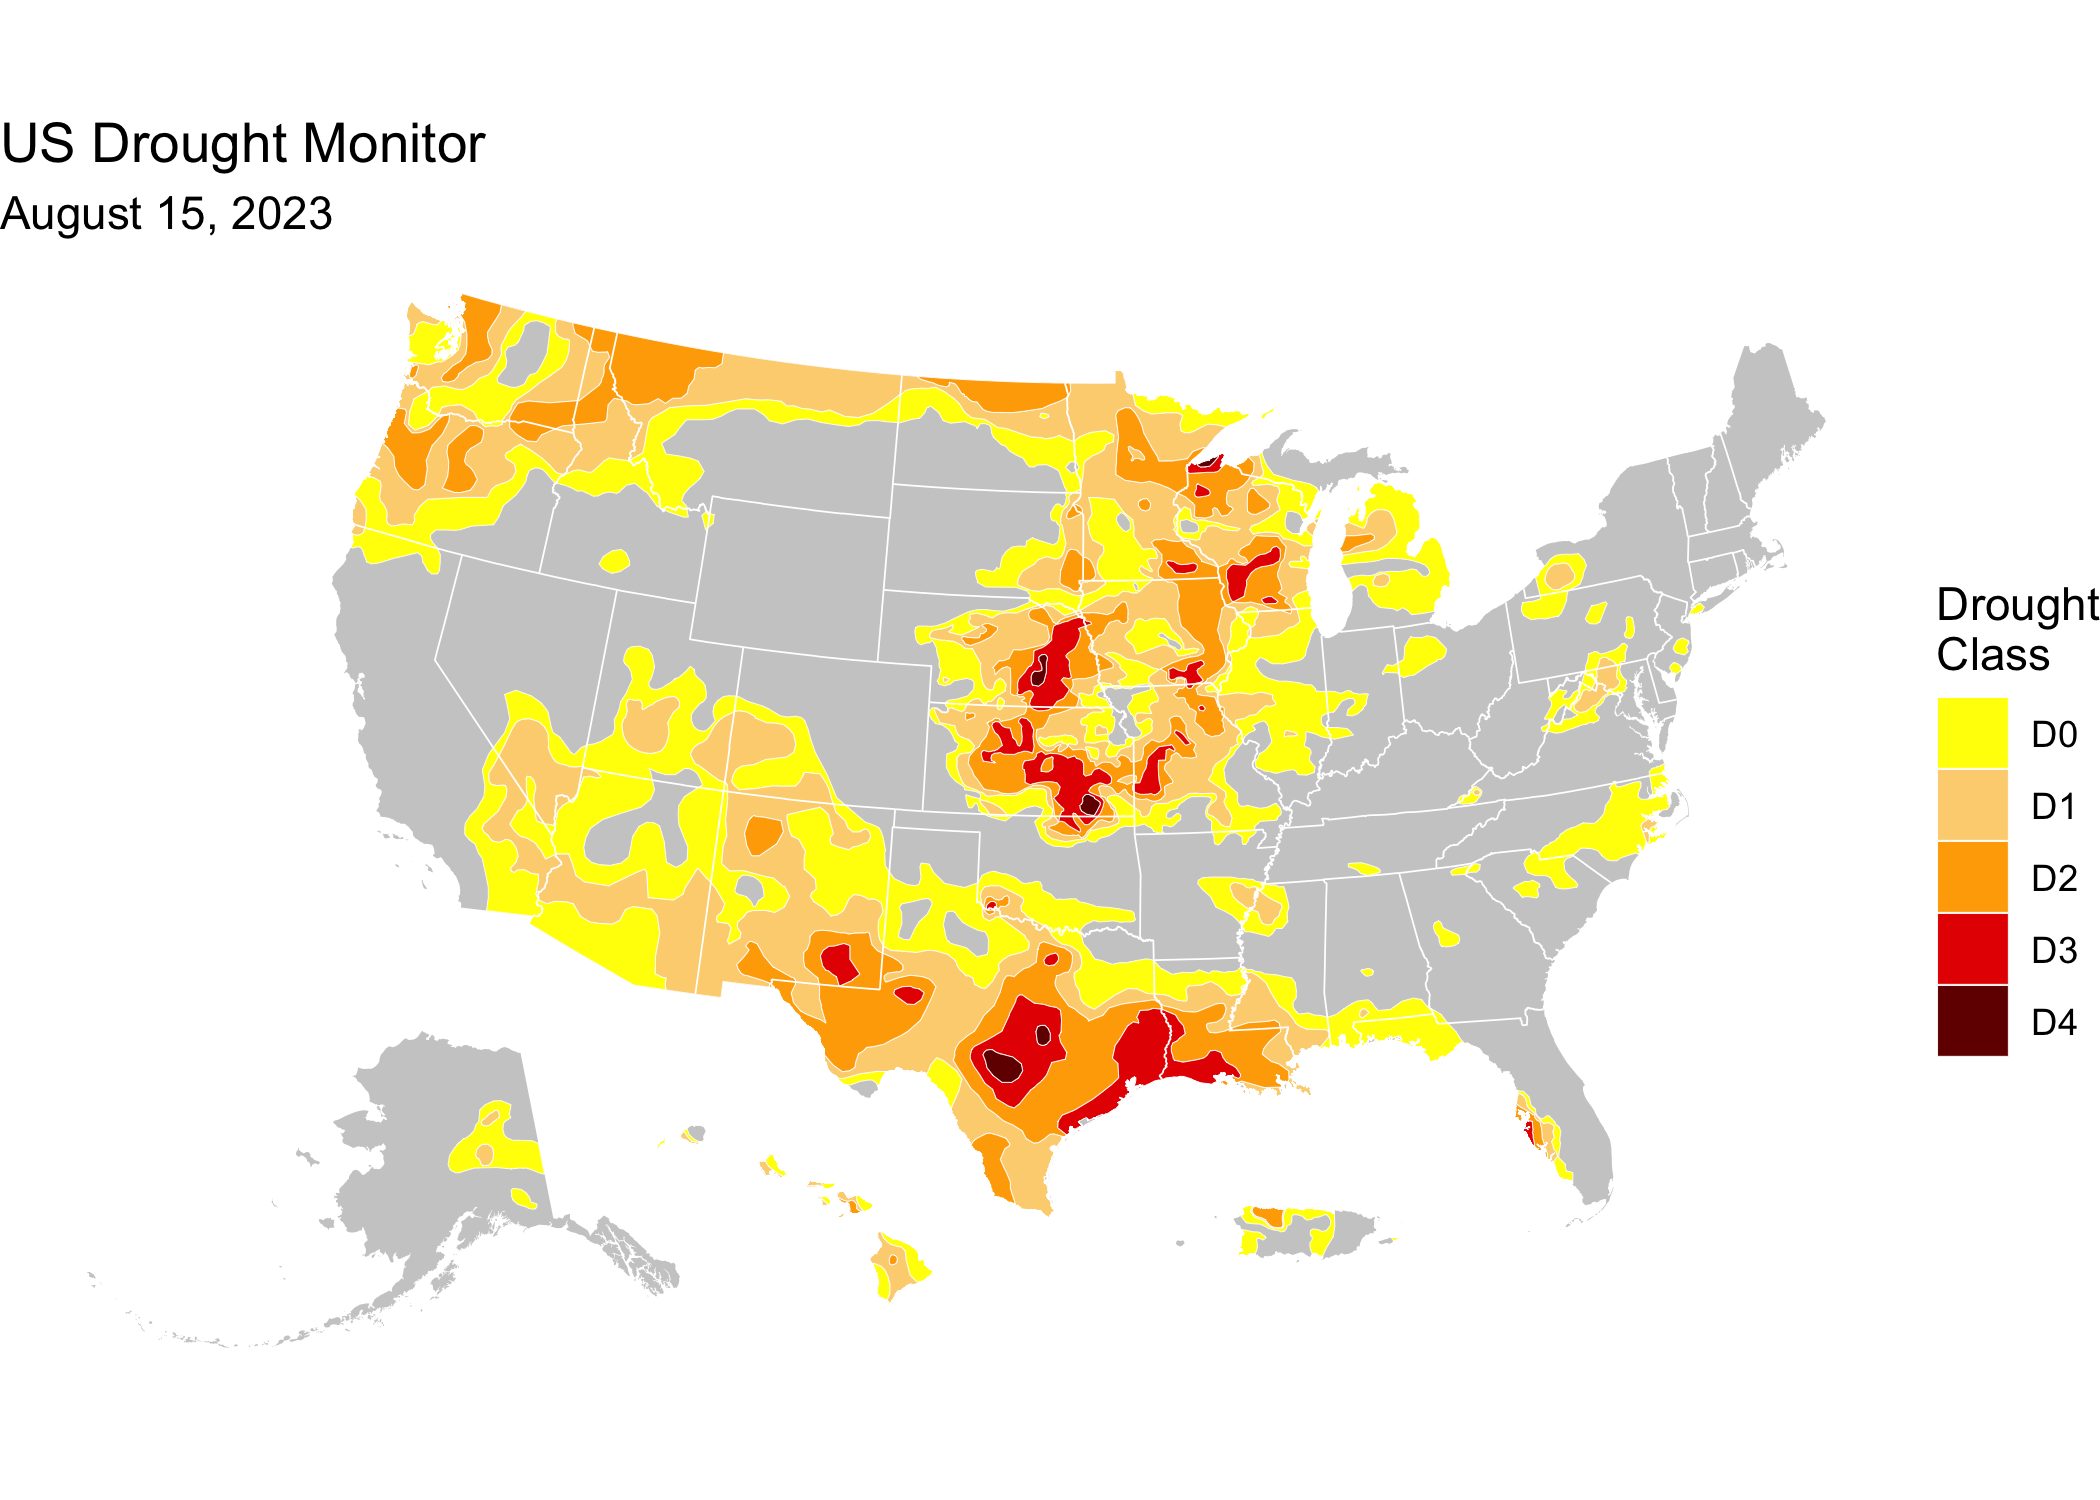
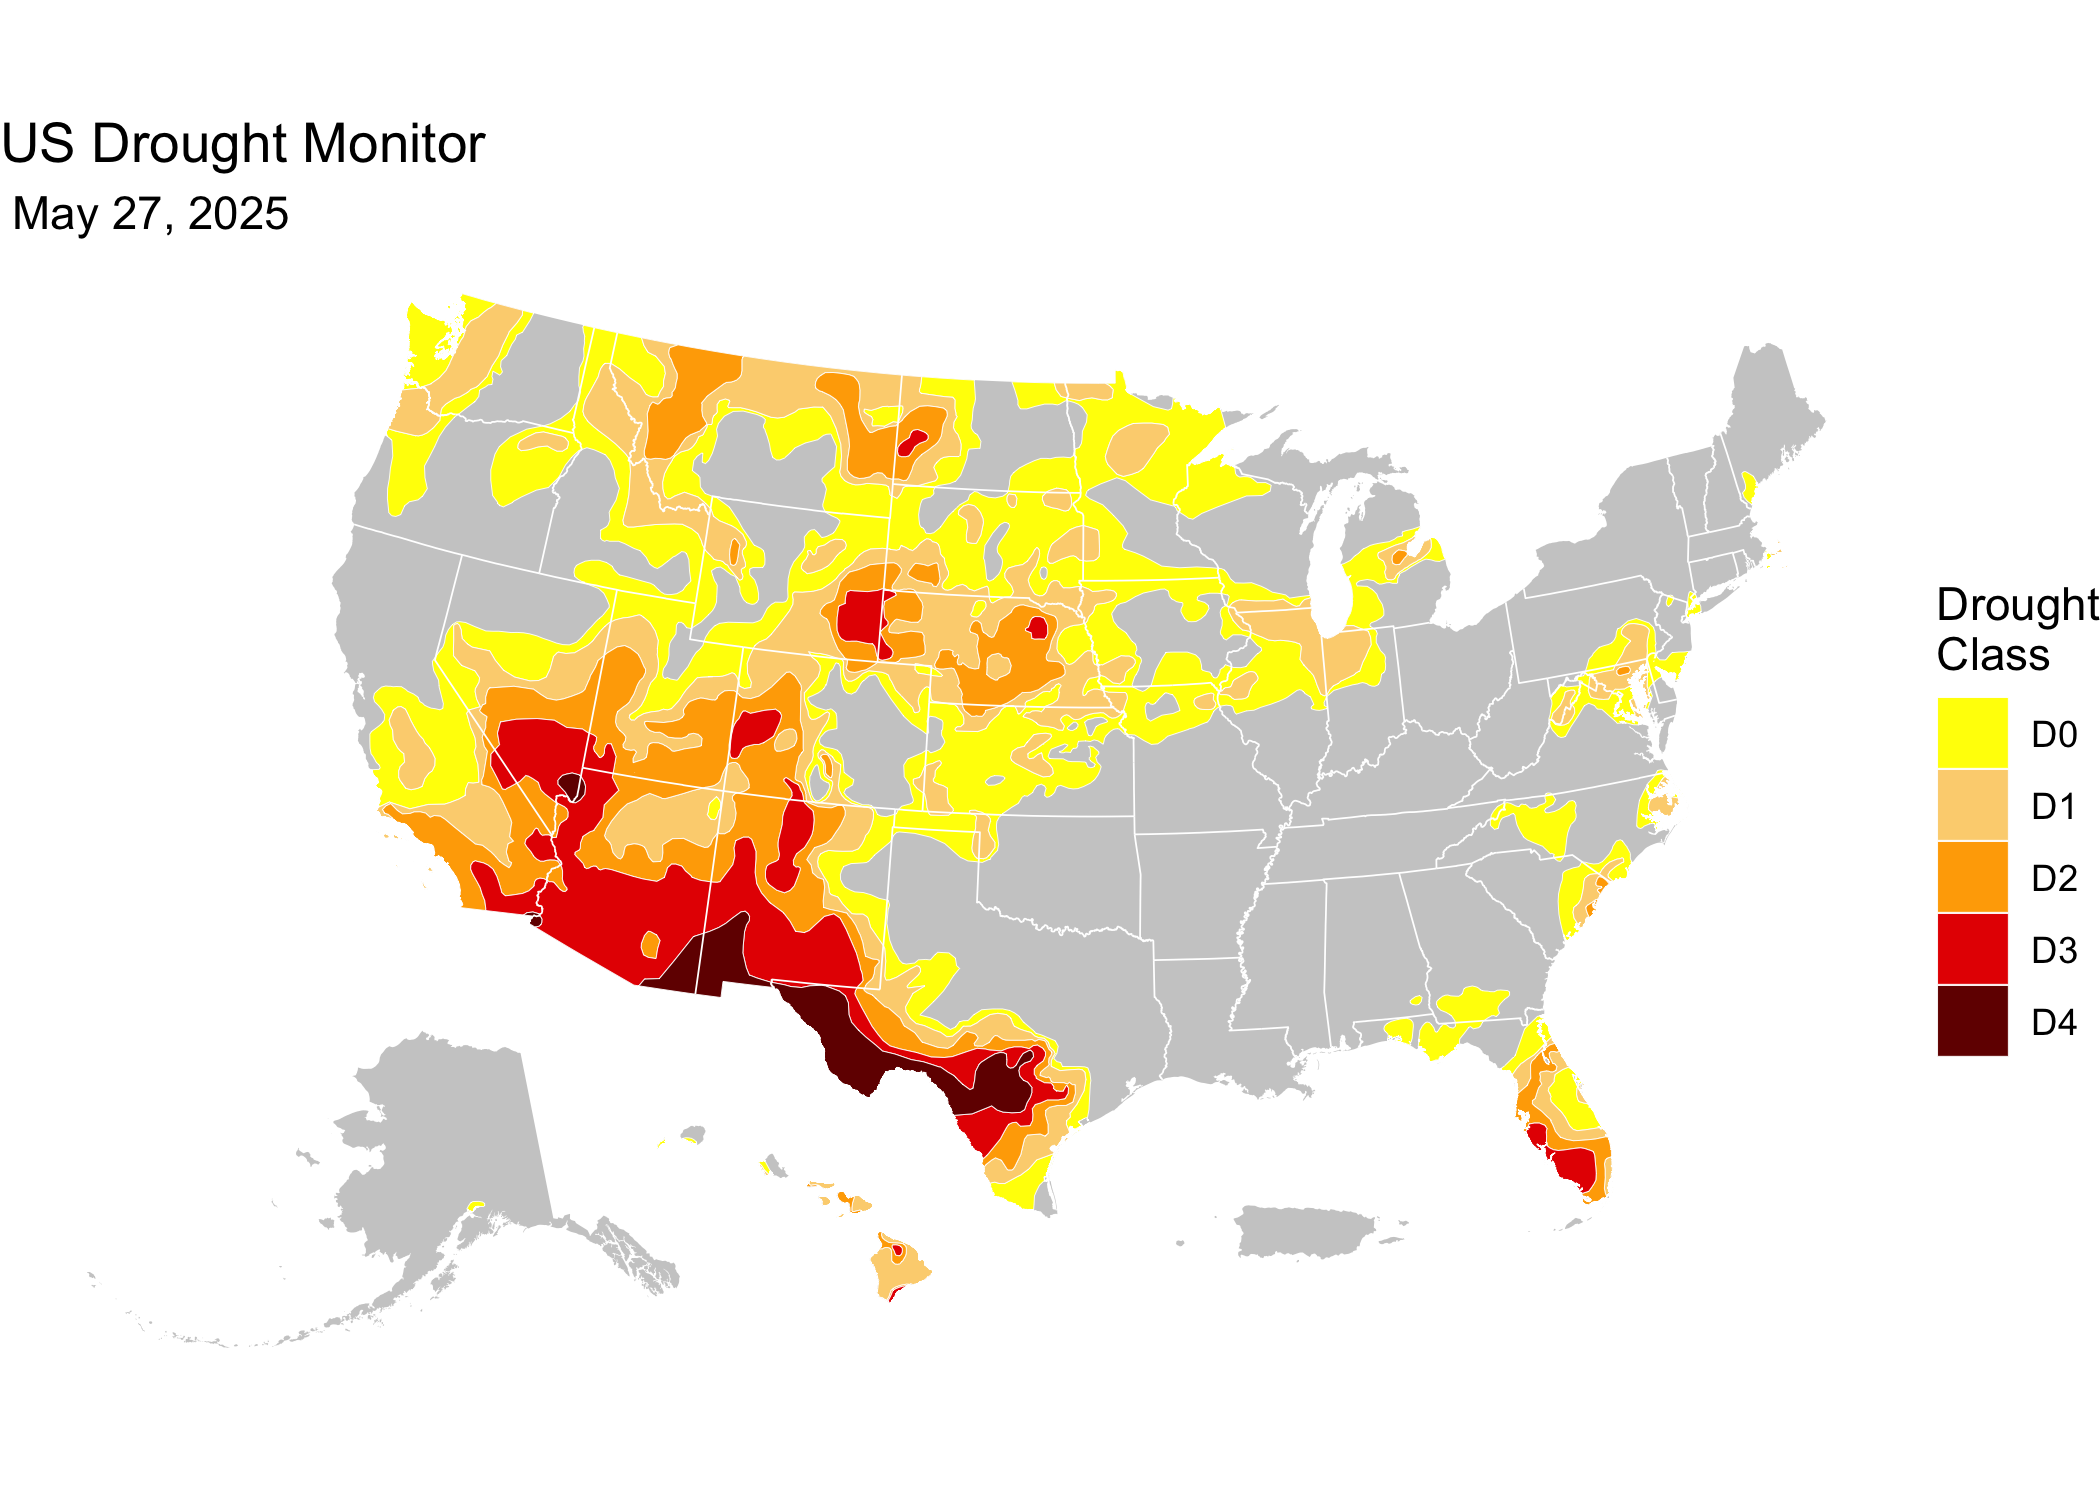
updated Readme to use latest USDM map in example

diff --git a/README.md b/README.md
@@ -1,6 +1,13 @@
 
 <!-- README.md is generated from README.Rmd. Please edit that file -->
 
+[![Static
+Badge](https://img.shields.io/badge/Repo-climate--smart--usda%2Fusdm-magenta?style=flat)](https://github.com/climate-smart-usda/usdm/)
+![Last
+Update](https://img.shields.io/github/last-commit/climate-smart-usda/usdm?style=flat)
+![Repo
+Size](https://img.shields.io/github/repo-size/climate-smart-usda/usdm?style=flat)
+
 This repository provides a reproducible, archival-quality pipeline to
 download, validate, transform, and document weekly shapefiles from the
 [US Drought Monitor (USDM)](https://droughtmonitor.unl.edu). The archive
@@ -139,10 +146,18 @@ library(ggplot2) # For plotting
 library(tigris)  # For state boundaries
 library(rmapshaper) # For innerlines
 
+## Get latest USDM data
+latest <-
+  jsonlite::fromJSON("https://climate-smart-usda.github.io/usdm/usdm-manifest.json")$path |>
+  stringr::str_subset("parquet") |>
+  max()
+  
+
 # Read a weekly GeoParquet file as an sf object
 # Use tigris::shift_geometry to shift and rescale Alaska, Hawaii, and Puerto Rico in a US-wide sf object
 usdm_sf <- 
-  sf::read_sf("https://climate-smart-usda.github.io/usdm/usdm/data/parquet/USDM_2023-08-15.parquet") |>
+  file.path("https://climate-smart-usda.github.io/usdm", latest) |>
+  sf::read_sf() |>
   # tigris::shift_geometry only works consistently on POLYGON geometries, so coerce.
   sf::st_cast("POLYGON", warn = FALSE, do_split = TRUE) |> # 
   tigris::shift_geometry()
@@ -181,7 +196,7 @@ ggplot(usdm_sf) +
     drop = FALSE,
     name = "Drought\nClass") +
   labs(title = "US Drought Monitor",
-       subtitle = "August 15, 2023") +
+       subtitle = format(usdm_sf$date[[1]], " %B %d, %Y")) +
   theme_void()
 ```
 
